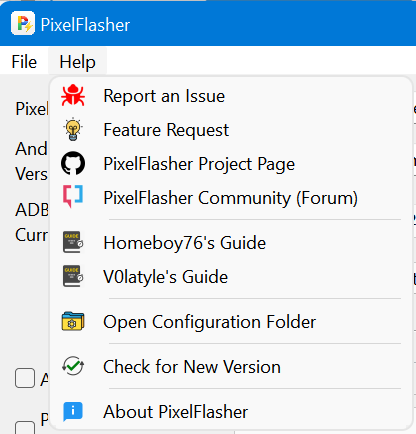
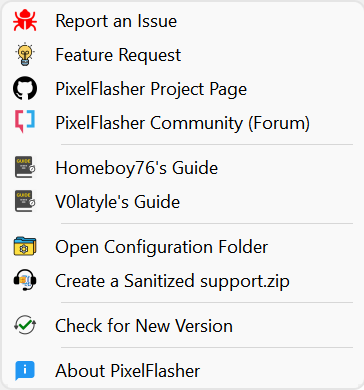
Bug Fix: When choosing custom ROM, the rom file was not being copied to the package directory. Update Documentation and screenshots.

diff --git a/modules.py b/modules.py
@@ -327,27 +327,28 @@ def md5(fname):
 #                               Function get_code_page
 # ============================================================================
 def get_code_page():
-    cp = get_system_codepage()
-    if cp:
-        print(f"Active code page: {cp}")
-    else:
-        theCmd = "chcp"
-        res = run_shell(theCmd)
-        if res.returncode == 0:
-            # extract the code page portion
-            try:
-                debug(f"CP: {res.stdout}")
-                cp = res.stdout.split(":")
-                cp = cp[1].strip()
-                cp = int(cp.replace('.',''))
-                print(f"Active code page: {cp}")
-                set_system_codepage(cp)
-            except:
-                print(f"\n{datetime.now():%Y-%m-%d %H:%M:%S} ERROR: Unable to get Active code page.\n")
-                print(f"{res.stderr}")
-                print(f"{res.stdout}")
+    if sys.platform == "win32":
+        cp = get_system_codepage()
+        if cp:
+            print(f"Active code page: {cp}")
         else:
-            print(f"\n{datetime.now():%Y-%m-%d %H:%M:%S} ERROR: Unable to get Active code page.\n")
+            theCmd = "chcp"
+            res = run_shell(theCmd)
+            if res.returncode == 0:
+                # extract the code page portion
+                try:
+                    debug(f"CP: {res.stdout}")
+                    cp = res.stdout.split(":")
+                    cp = cp[1].strip()
+                    cp = int(cp.replace('.',''))
+                    print(f"Active code page: {cp}")
+                    set_system_codepage(cp)
+                except:
+                    print(f"\n{datetime.now():%Y-%m-%d %H:%M:%S} ERROR: Unable to get Active code page.\n")
+                    print(f"{res.stderr}")
+                    print(f"{res.stdout}")
+            else:
+                print(f"\n{datetime.now():%Y-%m-%d %H:%M:%S} ERROR: Unable to get Active code page.\n")
 
 
 # ============================================================================
@@ -410,8 +411,16 @@ def create_support_zip():
         debug(f"Copying {to_copy} to {support_dir_full}")
         shutil.copytree(to_copy, logs_dir)
 
+    # create directory/file listing
+    theCmd = f"dir /s /b {config_path} > {os.path.join(support_dir_full, 'files.txt')}"
+    debug("%s" % theCmd)
+    res = run_shell(theCmd)
+
     # sanitize json
     sanitize_file(os.path.join(support_dir_full, 'PixelFlasher.json'))
+    # sanitize json
+    sanitize_file(os.path.join(support_dir_full, 'files.txt'))
+
     # for each file in logs, sanitize
     for filename in os.listdir(logs_dir):
         file_path = os.path.join(logs_dir, filename)
@@ -1195,11 +1204,30 @@ def flash_phone(self):
                 os.remove(pf)
             debug(f"Copying {boot.boot_path} to {pf}")
             shutil.copy(boot.boot_path, pf, follow_symlinks=True)
-
         if not os.path.exists(pf):
             print(f"\n{datetime.now():%Y-%m-%d %H:%M:%S} boot file: {pf} is not found.")
             print("Aborting ...")
             return
+
+        # check for rom file
+        if self.config.custom_rom and self.config.advanced_options:
+            if not os.path.exists(self.config.custom_rom_path):
+                print(f"\n{datetime.now():%Y-%m-%d %H:%M:%S} ERROR: ROM file: {self.config.custom_rom_path} is not found.")
+                print("Aborting ...")
+                return
+            else:
+                # copy ROM file to package directory, but first delete an old one to be sure
+                rom_file = ntpath.basename(self.config.custom_rom_path)
+                set_custom_rom_file(rom_file)
+                rom = os.path.join(package_dir_full, rom_file)
+                if os.path.exists(rom):
+                    os.remove(rom)
+                debug(f"Copying {self.config.custom_rom_path} to {rom}")
+                shutil.copy(self.config.custom_rom_path, rom, follow_symlinks=True)
+            if not os.path.exists(rom):
+                print(f"\n{datetime.now():%Y-%m-%d %H:%M:%S} ROM file: {rom} is not found.")
+                print("Aborting ...")
+                return
 
         # Make sure Phone model matches firmware model
         if get_firmware_model() != device.hardware:
@@ -1357,6 +1385,7 @@ def flash_phone(self):
         print(f"{datetime.now():%Y-%m-%d %H:%M:%S} Flashing device {device.id} ...")
         theCmd = dest
         os.chdir(package_dir_full)
+        debug(f"Running in Directory: {package_dir_full}")
         theCmd = "\"%s\"" % theCmd
         debug(theCmd)
         run_shell2(theCmd)

diff --git a/config.py b/config.py
@@ -3,7 +3,7 @@
 import os
 import json
 
-VERSION = "3.3.2.0"
+VERSION = "3.3.3.0"
 WIDTH = 1400
 HEIGHT = 1040
 POS_X = 40

diff --git a/README.md b/README.md
@@ -206,7 +206,8 @@ You've been warned!
     - Patching `boot.img` can be performed if the option is selected. You can select any of the listed `boot.img`.
     - Flash Mode is similar to basic flash mode described above in step 7.  
 4. Custom Flash. select this to switch from flashing a Factory Image to flashing a single file.
-5. Browse to select a a valid image file (.img or .zip).  
+5. Browse to select a a valid image file (.img or .zip).
+Or select a boot.img from the list above and click on the paste button to paste the selected boot.img into the file selection. 
 Choose the dropdown to select image type.  
     - boot (can be flashed to Live or boot) - Expected file type .img
     - bootloader - Expected file type .img
@@ -225,7 +226,8 @@ Choose the dropdown to select image type.
     - vendor_boot - Expected file type .img
     - vendor_dlkm (the device will be put into fastbootd mode during this operation) - Expected file type .img
     - image - Expected file type .zip
-    - SIDELOAD - Expected file type .zip
+    - SIDELOAD - Expected file type .zip  
+Select the appropriate flash options.
 
 ## Credits
 
